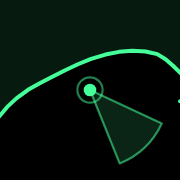
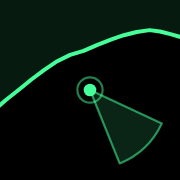
Radar: the owner's coastline replaces the provisional trace
KIOSK_COAST is now the owner's own sketch, digitized in its native
positions: shore polyline (frame aspect 2.122), rock clusters, reef
wave-break lines, parking lot, and beach path, with the lineup seated
just seaward of the traced break lines. The paint contain-fits the new
frame and extends both shore ends past the screen edges; the old
satellite-trace pond and top-crop are gone. PWA icons regenerated from
the same shore, crop centered on the lineup. Docs updated — the trace
is no longer provisional.

Claude-Session: https://claude.ai/code/session_01MdzzbVcsogLS6mtEZesNUQ

Changed region(s): [[0.0, 0.1389, 1.0, 0.6667], [0.9722, 0.5556, 1.0, 0.5833]]

diff --git a/kiosk.js b/kiosk.js
@@ -393,55 +393,54 @@ function kioskRenderDays() {
 // second (KIOSK.radarStepMs) through the full forecast, looping, with
 // the live swell chart + its moving dots visible below the scope.
 
-// PROVISIONAL COASTLINE — hand-traced from project/assets/lineup.jpg
-// (1992×949). Swap in the owner's traced file when it arrives: points
-// are normalized 0..1 [x, y] over that exact image frame, listed
-// upcoast → downcoast; `lineup` is the arrows' convergence point
-// (image center, matching the lineup-map overlay). Land is everything
-// above/left of the shore polyline.
+// OWNER-TRACED COASTLINE — digitized from the owner's sketch (traced
+// over the radar frame, with their features drawn in). Points are
+// normalized 0..1 [x, y] over the sketch's own frame (aspect below),
+// listed SW end → E end; land is above/left of the shore. `lineup` is
+// the arrows' convergence point, seated just seaward of the traced
+// wave-break lines on the reef.
 const KIOSK_COAST = {
-  lineup: [0.5, 0.5],
+  aspect: 2.122,
+  lineup: [0.482, 0.306],
   shore: [
-    [0.216, 1.000], [0.199, 0.915], [0.201, 0.845], [0.216, 0.775],
-    [0.238, 0.708], [0.259, 0.649], [0.281, 0.594], [0.306, 0.545],
-    [0.336, 0.499], [0.367, 0.463], [0.399, 0.428], [0.433, 0.392],
-    [0.468, 0.357], [0.503, 0.327], [0.541, 0.303], [0.577, 0.288],
-    [0.612, 0.282], [0.647, 0.286], [0.678, 0.301], [0.700, 0.329],
-    [0.719, 0.364], [0.741, 0.409], [0.766, 0.451], [0.796, 0.482],
-    [0.833, 0.508], [0.874, 0.527], [0.919, 0.544], [0.963, 0.556],
-    [1.000, 0.562]
+    [0.013, 0.978], [0.058, 0.942], [0.102, 0.917], [0.139, 0.894],
+    [0.160, 0.880], [0.156, 0.833], [0.159, 0.772], [0.168, 0.711],
+    [0.181, 0.656], [0.196, 0.606], [0.215, 0.556], [0.236, 0.506],
+    [0.259, 0.456], [0.285, 0.400], [0.312, 0.350], [0.338, 0.306],
+    [0.364, 0.261], [0.390, 0.220], [0.416, 0.183], [0.442, 0.156],
+    [0.469, 0.139], [0.497, 0.113], [0.524, 0.091], [0.550, 0.072],
+    [0.576, 0.058], [0.602, 0.050], [0.623, 0.056], [0.644, 0.067],
+    [0.665, 0.080], [0.686, 0.098], [0.702, 0.120], [0.717, 0.150],
+    [0.730, 0.183], [0.743, 0.220], [0.759, 0.244], [0.780, 0.267],
+    [0.806, 0.291], [0.838, 0.313], [0.869, 0.330], [0.901, 0.344],
+    [0.932, 0.353], [0.963, 0.356], [0.992, 0.359]
   ],
-  ponds: [[
-    [0.667, 0.290], [0.673, 0.245], [0.690, 0.212], [0.712, 0.200],
-    [0.733, 0.208], [0.744, 0.238], [0.749, 0.275], [0.757, 0.300],
-    [0.752, 0.345], [0.735, 0.378], [0.712, 0.392], [0.692, 0.380],
-    [0.678, 0.350], [0.669, 0.318]
-  ]],
-  // Owner-traced features (mapped from their sketch onto this shore by
-  // along-coast position + offset): rock spots, the wave-break lines on
-  // the reef, the parking lot, and the path from the lot to the beach.
+  ponds: [],
+  // The owner's drawn features, in their traced positions: rock spots,
+  // the wave-break lines on the reef, the parking lot, and the path
+  // from the lot down to the beach.
   rocks: [
-    [0.504, 0.361], [0.508, 0.352], [0.513, 0.347], [0.519, 0.345],
-    [0.524, 0.352], [0.529, 0.359], [0.533, 0.364], [0.520, 0.361],
-    [0.513, 0.360],
-    [0.351, 0.529], [0.356, 0.545], [0.354, 0.557], [0.358, 0.573],
-    [0.363, 0.560], [0.372, 0.591],
-    [0.281, 0.595], [0.285, 0.612], [0.277, 0.629], [0.281, 0.646],
-    [0.282, 0.668], [0.275, 0.680],
-    [0.222, 0.780], [0.229, 0.790], [0.232, 0.795], [0.238, 0.804],
-    [0.243, 0.810],
-    [0.803, 0.503], [0.813, 0.510], [0.828, 0.515], [0.836, 0.520],
-    [0.853, 0.523], [0.865, 0.530], [0.877, 0.537], [0.885, 0.541],
-    [0.913, 0.547], [0.926, 0.554], [0.939, 0.559],
-    [0.977, 0.560], [0.987, 0.566], [0.996, 0.570]
+    [0.460, 0.186], [0.467, 0.174], [0.475, 0.167], [0.483, 0.162],
+    [0.490, 0.169], [0.496, 0.176], [0.503, 0.180], [0.485, 0.181],
+    [0.474, 0.183],
+    [0.284, 0.473], [0.292, 0.489], [0.288, 0.513], [0.299, 0.520],
+    [0.304, 0.500], [0.318, 0.531],
+    [0.198, 0.602], [0.203, 0.622], [0.195, 0.647], [0.200, 0.667],
+    [0.204, 0.689], [0.196, 0.713],
+    [0.166, 0.887], [0.174, 0.902], [0.170, 0.922], [0.177, 0.936],
+    [0.172, 0.956],
+    [0.792, 0.298], [0.801, 0.307], [0.817, 0.311], [0.825, 0.318],
+    [0.842, 0.322], [0.854, 0.331], [0.866, 0.339], [0.874, 0.344],
+    [0.904, 0.351], [0.916, 0.359], [0.929, 0.364],
+    [0.969, 0.358], [0.979, 0.364], [0.988, 0.369]
   ],
   breaks: [
-    [[0.440, 0.439], [0.491, 0.402], [0.534, 0.352]],
-    [[0.501, 0.457], [0.551, 0.410]],
-    [[0.534, 0.498], [0.551, 0.484]]
+    [[0.385, 0.302], [0.445, 0.233], [0.503, 0.164]],
+    [[0.460, 0.299], [0.526, 0.230]],
+    [[0.509, 0.343], [0.530, 0.320]]
   ],
-  lot: [[0.407, 0.224], [0.414, 0.228], [0.420, 0.321], [0.410, 0.324]],
-  path: [[0.415, 0.323], [0.424, 0.337], [0.436, 0.347], [0.449, 0.348]]
+  lot: [[0.325, 0.058], [0.336, 0.056], [0.350, 0.169], [0.338, 0.178]],
+  path: [[0.344, 0.173], [0.356, 0.187], [0.372, 0.191], [0.390, 0.183]]
 };
 
 const KIOSK_RADAR = { idx: -1, sweep: 0, raf: null, lastT: 0 };
@@ -509,16 +508,14 @@ function kioskRadarPaint() {
   if (!w || !h) return;
 
   const G = '#45ff9a';
-  // The canvas fills the screen; the coastline trace keeps its true
-  // proportions filled to the canvas height with the top 15% of the
-  // frame cropped away (all land) — the water gets the pixels. The
-  // shore's right end extends straight to the canvas edge so the coast
-  // never stops mid-air.
-  const FRAME_ASPECT = 1992 / 949;
-  const CROP = 0.15; // top slice of the frame hidden off-canvas
-  const fh = h / (1 - CROP);
-  const fw = fh * FRAME_ASPECT;
-  const fx = (w - fw) / 2, fy = -CROP * fh;
+  // The canvas fills the screen; the owner's trace keeps its true
+  // proportions contain-fitted and centered. Both shore ends extend
+  // along their own headings past the canvas edges so the coast never
+  // stops mid-air, whatever the screen shape.
+  const FRAME_ASPECT = KIOSK_COAST.aspect;
+  let fw = w, fh = w / FRAME_ASPECT;
+  if (fh > h) { fh = h; fw = h * FRAME_ASPECT; }
+  const fx = (w - fw) / 2, fy = (h - fh) / 2;
   const lx = fx + KIOSK_COAST.lineup[0] * fw, ly = fy + KIOSK_COAST.lineup[1] * fh;
   const rMax = h * 0.62;
   const px = p => [fx + p[0] * fw, fy + p[1] * fh];
@@ -528,15 +525,24 @@ function kioskRadarPaint() {
     for (let i = 1; i < pts.length; i++) { const [x, y] = px(pts[i]); ctx.lineTo(x, y); }
   };
   const shore = KIOSK_COAST.shore;
-  const shoreEndY = fy + shore[shore.length - 1][1] * fh;
+  // Off-canvas extensions of the first/last shore segments.
+  const EXT = w + h;
+  const ext = (a, b) => {
+    const [ax, ay] = px(a), [bx, by] = px(b);
+    const d = Math.hypot(ax - bx, ay - by) || 1;
+    return [ax + ((ax - bx) / d) * EXT, ay + ((ay - by) / d) * EXT];
+  };
+  const extStart = ext(shore[0], shore[1]);
+  const extEnd = ext(shore[shore.length - 1], shore[shore.length - 2]);
 
   // Faceplate + land mass (everything above/left of the shore line).
   ctx.fillStyle = '#000';
   ctx.fillRect(0, 0, w, h);
   ctx.beginPath();
+  ctx.moveTo(extStart[0], extStart[1]);
   trace(shore);
-  ctx.lineTo(w, shoreEndY);
-  ctx.lineTo(w, 0); ctx.lineTo(0, 0); ctx.lineTo(0, h);
+  ctx.lineTo(extEnd[0], extEnd[1]);
+  ctx.lineTo(w + EXT, -EXT); ctx.lineTo(-EXT, -EXT);
   ctx.closePath();
   ctx.fillStyle = 'rgba(69, 255, 154, 0.06)';
   ctx.fill();
@@ -572,10 +578,11 @@ function kioskRadarPaint() {
   }
   ctx.restore();
 
-  // Coastline stroke + ponds on top of the sweep.
+  // Coastline stroke on top of the sweep.
   ctx.beginPath();
+  ctx.moveTo(extStart[0], extStart[1]);
   trace(shore);
-  ctx.lineTo(w, shoreEndY);
+  ctx.lineTo(extEnd[0], extEnd[1]);
   ctx.strokeStyle = 'rgba(69, 255, 154, 0.9)';
   ctx.lineWidth = 1.5;
   ctx.lineJoin = 'round';
@@ -790,7 +797,7 @@ function kioskInfoHTML(panel) {
   };
   if (panel === 'radar') {
     return '<h3>Radar loop</h3>' +
-      '<p>The scope replays the forecast at 1 second per hour and loops. Arrows show primary swell, secondary swell (dimmer), and wind (dashed), each pointing the way it travels and converging on the Chocomount lineup; arrow length scales with energy. The shaded cone is the 115–158° swell window, and the chart below tracks the same hour. Tap to pause, tap again to resume; dragging the chart scrubs by hand. The coastline is a provisional trace of the satellite lineup image.</p>' +
+      '<p>The scope replays the forecast at 1 second per hour and loops. Arrows show primary swell, secondary swell (dimmer), and wind (dashed), each pointing the way it travels and converging on the Chocomount lineup; arrow length scales with energy. The shaded cone is the 115–158° swell window, and the chart below tracks the same hour. Tap to pause, tap again to resume; dragging the chart scrubs by hand. The coastline, rocks, reef break lines, parking lot, and beach path are traced from the owner’s own sketch of the spot.</p>' +
       '<h3>Sources</h3>' +
       '<p>Swell &amp; wind: Open-Meteo Marine and Weather forecast (best_match model) at the offshore forecast point. Tide: NOAA CO-OPS predictions, Silver Eel Pond station 8510719.</p>';
   }

diff --git a/scripts/generate_icons.js b/scripts/generate_icons.js
@@ -26,20 +26,23 @@ async function main() {
   const page = await browser.newPage();
 
   const dataUrls = await page.evaluate(sizes => {
-    // Mirror of KIOSK_COAST in kiosk.js (normalized over the lineup.jpg
-    // frame, 1992×949; lineup at frame center). Keep in sync by hand —
-    // this script never loads the page.
+    // Mirror of KIOSK_COAST in kiosk.js (the owner-traced coastline,
+    // normalized over the sketch frame). Keep in sync by hand — this
+    // script never loads the page.
     const SHORE = [
-      [0.216, 1.000], [0.199, 0.915], [0.201, 0.845], [0.216, 0.775],
-      [0.238, 0.708], [0.259, 0.649], [0.281, 0.594], [0.306, 0.545],
-      [0.336, 0.499], [0.367, 0.463], [0.399, 0.428], [0.433, 0.392],
-      [0.468, 0.357], [0.503, 0.327], [0.541, 0.303], [0.577, 0.288],
-      [0.612, 0.282], [0.647, 0.286], [0.678, 0.301], [0.700, 0.329],
-      [0.719, 0.364], [0.741, 0.409], [0.766, 0.451], [0.796, 0.482],
-      [0.833, 0.508], [0.874, 0.527], [0.919, 0.544], [0.963, 0.556],
-      [1.000, 0.562]
+      [0.013, 0.978], [0.058, 0.942], [0.102, 0.917], [0.139, 0.894],
+      [0.160, 0.880], [0.156, 0.833], [0.159, 0.772], [0.168, 0.711],
+      [0.181, 0.656], [0.196, 0.606], [0.215, 0.556], [0.236, 0.506],
+      [0.259, 0.456], [0.285, 0.400], [0.312, 0.350], [0.338, 0.306],
+      [0.364, 0.261], [0.390, 0.220], [0.416, 0.183], [0.442, 0.156],
+      [0.469, 0.139], [0.497, 0.113], [0.524, 0.091], [0.550, 0.072],
+      [0.576, 0.058], [0.602, 0.050], [0.623, 0.056], [0.644, 0.067],
+      [0.665, 0.080], [0.686, 0.098], [0.702, 0.120], [0.717, 0.150],
+      [0.730, 0.183], [0.743, 0.220], [0.759, 0.244], [0.780, 0.267],
+      [0.806, 0.291], [0.838, 0.313], [0.869, 0.330], [0.901, 0.344],
+      [0.932, 0.353], [0.963, 0.356], [0.992, 0.359]
     ];
-    const ASPECT = 1992 / 949;
+    const ASPECT = 2.122;
     const WIN_MIN = 115, WIN_MAX = 158; // swell window bearings
 
     function drawIcon(size) {
@@ -47,10 +50,10 @@ async function main() {
       c.width = size; c.height = size;
       const ctx = c.getContext('2d');
 
-      // Square crop of the frame, centered on the lineup: frame height =
-      // icon height, horizontal overflow cropped evenly.
-      const fh = size, fw = size * ASPECT;
-      const fx = (size - fw) / 2, fy = 0;
+      // Square crop of the frame, centered on the lineup point.
+      const LINEUP = [0.482, 0.306];
+      const fh = size * 1.3, fw = fh * ASPECT;
+      const fx = size / 2 - LINEUP[0] * fw, fy = size / 2 - LINEUP[1] * fh;
       const px = p => [fx + p[0] * fw, fy + p[1] * fh];
       const lx = size / 2, ly = size / 2;
 
@@ -62,8 +65,8 @@ async function main() {
       const [x0, y0] = px(SHORE[0]);
       ctx.moveTo(x0, y0);
       for (let i = 1; i < SHORE.length; i++) { const [x, y] = px(SHORE[i]); ctx.lineTo(x, y); }
-      ctx.lineTo(size, size * 0.562);
-      ctx.lineTo(size, 0); ctx.lineTo(0, 0); ctx.lineTo(0, size);
+      ctx.lineTo(size * 3, size * 0.5);
+      ctx.lineTo(size * 3, -size); ctx.lineTo(-size, -size); ctx.lineTo(-size, size * 2);
       ctx.closePath();
       ctx.fillStyle = 'rgba(69, 255, 154, 0.10)';
       ctx.fill();
@@ -72,7 +75,7 @@ async function main() {
       ctx.beginPath();
       ctx.moveTo(x0, y0);
       for (let i = 1; i < SHORE.length; i++) { const [x, y] = px(SHORE[i]); ctx.lineTo(x, y); }
-      ctx.lineTo(size, size * 0.562);
+      ctx.lineTo(size * 3, size * 0.5);
       ctx.strokeStyle = '#45ff9a';
       ctx.lineWidth = Math.max(2, size * 0.022);
       ctx.lineJoin = 'round';

diff --git a/CHANGELOG.md b/CHANGELOG.md
@@ -1,5 +1,18 @@
 # Changelog
 
+## [Unreleased] — Radar: the owner's coastline replaces the provisional trace
+
+KIOSK_COAST is now the owner's own sketch, digitized in its native
+positions — shore polyline (43 points, frame aspect 2.122), rock
+clusters, reef wave-break lines, parking lot, and beach path — with the
+lineup point seated just seaward of the traced break lines. The paint
+code contain-fits the new frame and extends both shore ends along
+their own headings past the screen edges (replacing the old
+right-edge-only extension and the top-crop, which the tighter frame no
+longer needs); the pond blob from the old satellite trace is gone. The
+PWA icons are regenerated from the same shore, crop centered on the
+lineup. Info card + README updated: the trace is no longer provisional.
+
 ## [Unreleased] — Radar: owner-traced features, taller chart, cleaner labels
 
 The scope shrinks 66.7 → 56vh and crops the top 15% of the frame (all

diff --git a/README.md b/README.md
@@ -69,9 +69,11 @@ bar moving in lockstep, and the clock in the scope's corner shows the
 frame's day, time, and offset from now. The panel dwells for one full
 loop (~168 s). Tapping the scope pauses the loop; tapping again
 resumes it in place (touches on the chart scrub it by hand — the radar
-follows the scrub). The coastline trace is provisional (hand-traced
-from `project/assets/lineup.jpg`); swap the `KIOSK_COAST` constant in
-`kiosk.js` when a proper trace exists.
+follows the scrub). The coastline — plus the rock spots, reef
+wave-break lines, parking lot, and beach path — is the owner's own
+trace, digitized into the `KIOSK_COAST` constant in `kiosk.js`
+(normalized coords over the sketch frame; the PWA icon mirrors the
+same shore).
 
 Each day card reads: primary (and, when present, secondary) swell as the
 min–max height range over the incoming-tide windows at Silver Eel
